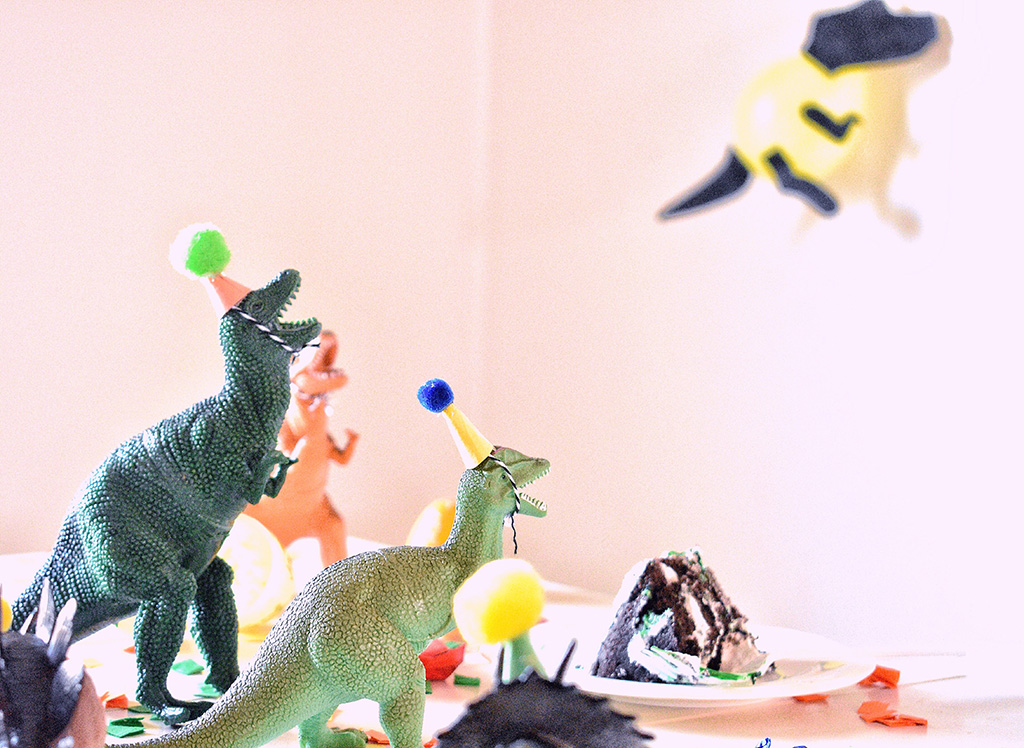
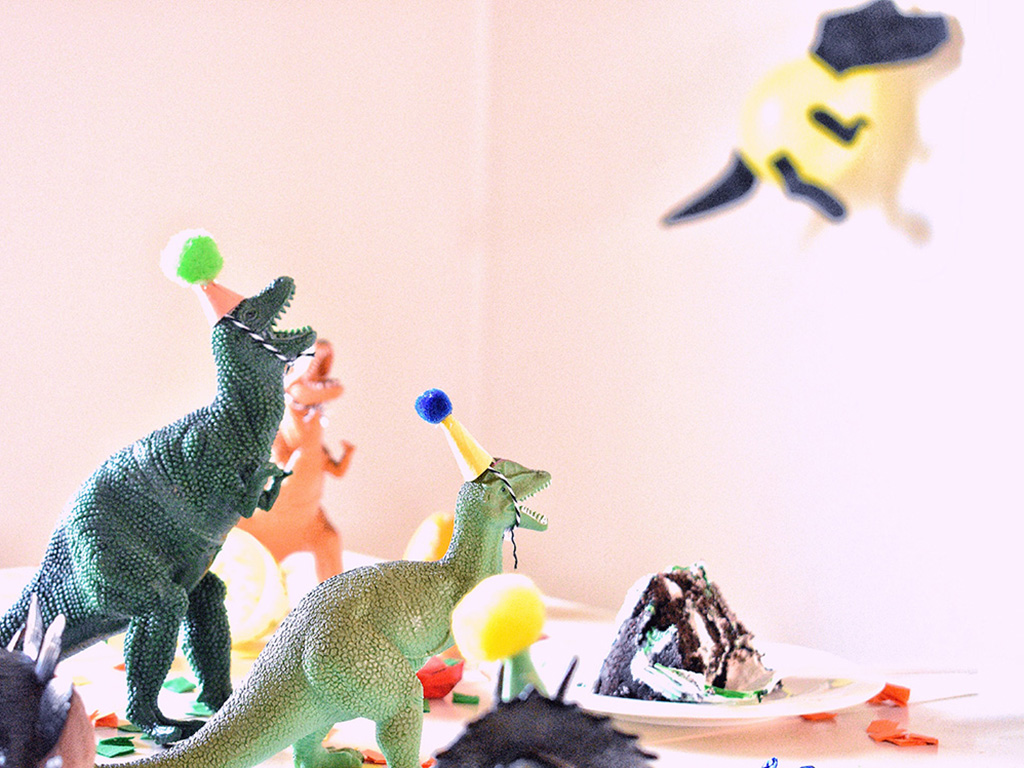
assignment 4 created

diff --git a/assignments/assignment_04/sketch.js b/assignments/assignment_04/sketch.js
@@ -1,54 +1,32 @@
 let canvasWidth = 1024;
-let canvasHeight = 684;
+let canvasHeight = 768;
 let myBackgrounds = [];
 let myImgUrls = [
-  "images/blackWithBdayCandles.jpg", // 0
-  "images/blueAstronautCupcakes.jpg", // 1
-  "images/blueBricks.jpg", // 2
-  "images/blueConfetti.jpg", // 3
+  "images/astronaut.jpg", // 0
+  "images/blueBricks.jpg", // 1
+  "images/blueConfetti.jpg", // 2  
+  "images/candles.jpg", // 3
   "images/dinosaurParty.jpg", // 4
-  "images/handWithMultiColorBalloons.jpg", // 5
-  "images/neutralCakeWithPopcorn.jpg", // 6
-  "images/pinkBalloons.jpg", // 7
-  "images/pinkBluePurpleSprinkles.jpg", // 8
+  "images/multiColorBalloons.jpg", // 5
+  "images/neutralCake.jpg", // 6
+  "images/paperPackages.jpg", // 7
+  "images/pinkBalloons.jpg", // 8
   "images/pinkIcing.jpg", // 9
-  "images/prettyPinkPackages.jpg", // 10
-  "images/rainbowSprinkles.jpg", // 11
-  "images/sharks.jpg", // 12
-  "images/whiteCupcakeonwhiteboards.jpg", // 13
-  "images/whiteWithBrownPackages.jpg", // 14
-]
+  "images/rainbowSprinkles.jpg", // 10
+  "images/sharks.jpg", // 11
+  "images/sprinkles.jpg", // 12
+  "images/whiteCupcakes.jpg", // 13
+];
 let textField, output, button;
 let clickToggle = false;
-let circle = {
-  // circle properties
-  x: canvasWidth / 2,
-  y: canvasHeight / 2,
-  circleSize: 5,
-
-  // METHODS of circle object
-  change: function (newX, newY, newSize) {
-    // pass in values to change location and size
-    this.x = newX;
-    this.y = newY;
-    this.circleSize = newSize;
-
-    // constrain() is a P5 function that limits the range of a var
-    this.x = constrain(this.x, 0, width);
-    this.y = constrain(this.y, 0, height);
-  },
-
-  display: function () {
-    // draw the circle with at the current location and size
-    ellipse(this.x, this.y, this.circleSize, this.circleSize * 3);
-  },
-};
-function preload(){
-  for(let i=0; i < myImgUrls.length;i++){
-    myBackgrounds[i]=loadImage(myImgUrls[i]);
+// preload images
+function preload() {
+  for (let i = 0; i < myImgUrls.length; i++) {
+    myBackgrounds[i] = loadImage(myImgUrls[i]);
   }
 }
 function setup() {
+  // var canvas = createCanvas(canvasWidth, canvasHeight);
   var canvas = createCanvas(windowWidth, windowHeight);
   // positions the canvas and used z-index to
   // make it a back ground image
@@ -61,49 +39,49 @@ function setup() {
   textField.position(145, 30);
   textField.parent("name");
 
+  // creating drop down options
+  sel = createSelect();
+  sel.position(10, 10);
+  sel.option("Select Theme", "100");
+  sel.option("Astronaut Cupcakes", "0");
+  sel.option("Blue Bricks", "1");
+  sel.option("Blue Confetti", "2");
+  sel.option("Birthday Candles", "3");
+  sel.option("Dinosaur Party", "4");
+  sel.option("Multi Color Balloons", "5");
+  sel.option("Cake", "6");
+  sel.option("Paper Packages", "7");
+  sel.option("Pink Balloons", "8");
+  sel.option("Pink Icing", "9");
+  sel.option("Rainbow Sprinkles", "10");
+  sel.option("Sharks", "11");
+  sel.option("Sprinkles", "12");
+  sel.option("White Cupcakes", "13");
+  // sel.selected('candles');
+  sel.changed(mySelectEvent);
   // creating Button element
   output = select("#output");
   output.position(windowWidth / 4, windowHeight / 2);
   button = createButton("Start/Stop");
   // using position() to control location
   button.position(160, 135);
-   // using parent() 
+  // using parent()
   button.parent("input");
-  // using element-specific event handler 
+  // using element-specific event handler
   // and callback function
   button.mousePressed(startTransformation);
 }
 
-function draw() {
-  let newCircleSize = round(random(1, 200));
-  // allows user to toggle transformation on/off
-  // only runs when toggle is true
-  if (clickToggle) {
-    noStroke();
-    // sets color palette according to 
-    // radio button selection
-    let palette = radio.value();
-    if (palette == 1) {
-      fill(myBlues[round(random(0, 4))]);
-    } else if (palette == 2) {
-      fill(myPinks[round(random(0, 4))]);
-    } else {
-      fill(myColors[round(random(0, 4))]);
-    }
-  // displays circles
-    circle.display();
-    // changes circle sizes ro random sizes
-    randomSize = circle.change(
-      round(random(0, windowWidth)),
-      round(random(0, windowHeight)),
-      newCircleSize
-    );
-  }
+function draw() {}
+
+function mySelectEvent() {
+  // imageMode(CENTER);
+  image(myBackgrounds[sel.value()], 0, 0);
 }
 function startTransformation() {
   // sets message to include user input
   let message = "Happy Birthday " + textField.value() + "!!!";
-  // uses html() to modify content of 
+  // uses html() to modify content of
   // DOM element
   output.html(message);
   // calls toggler() function
